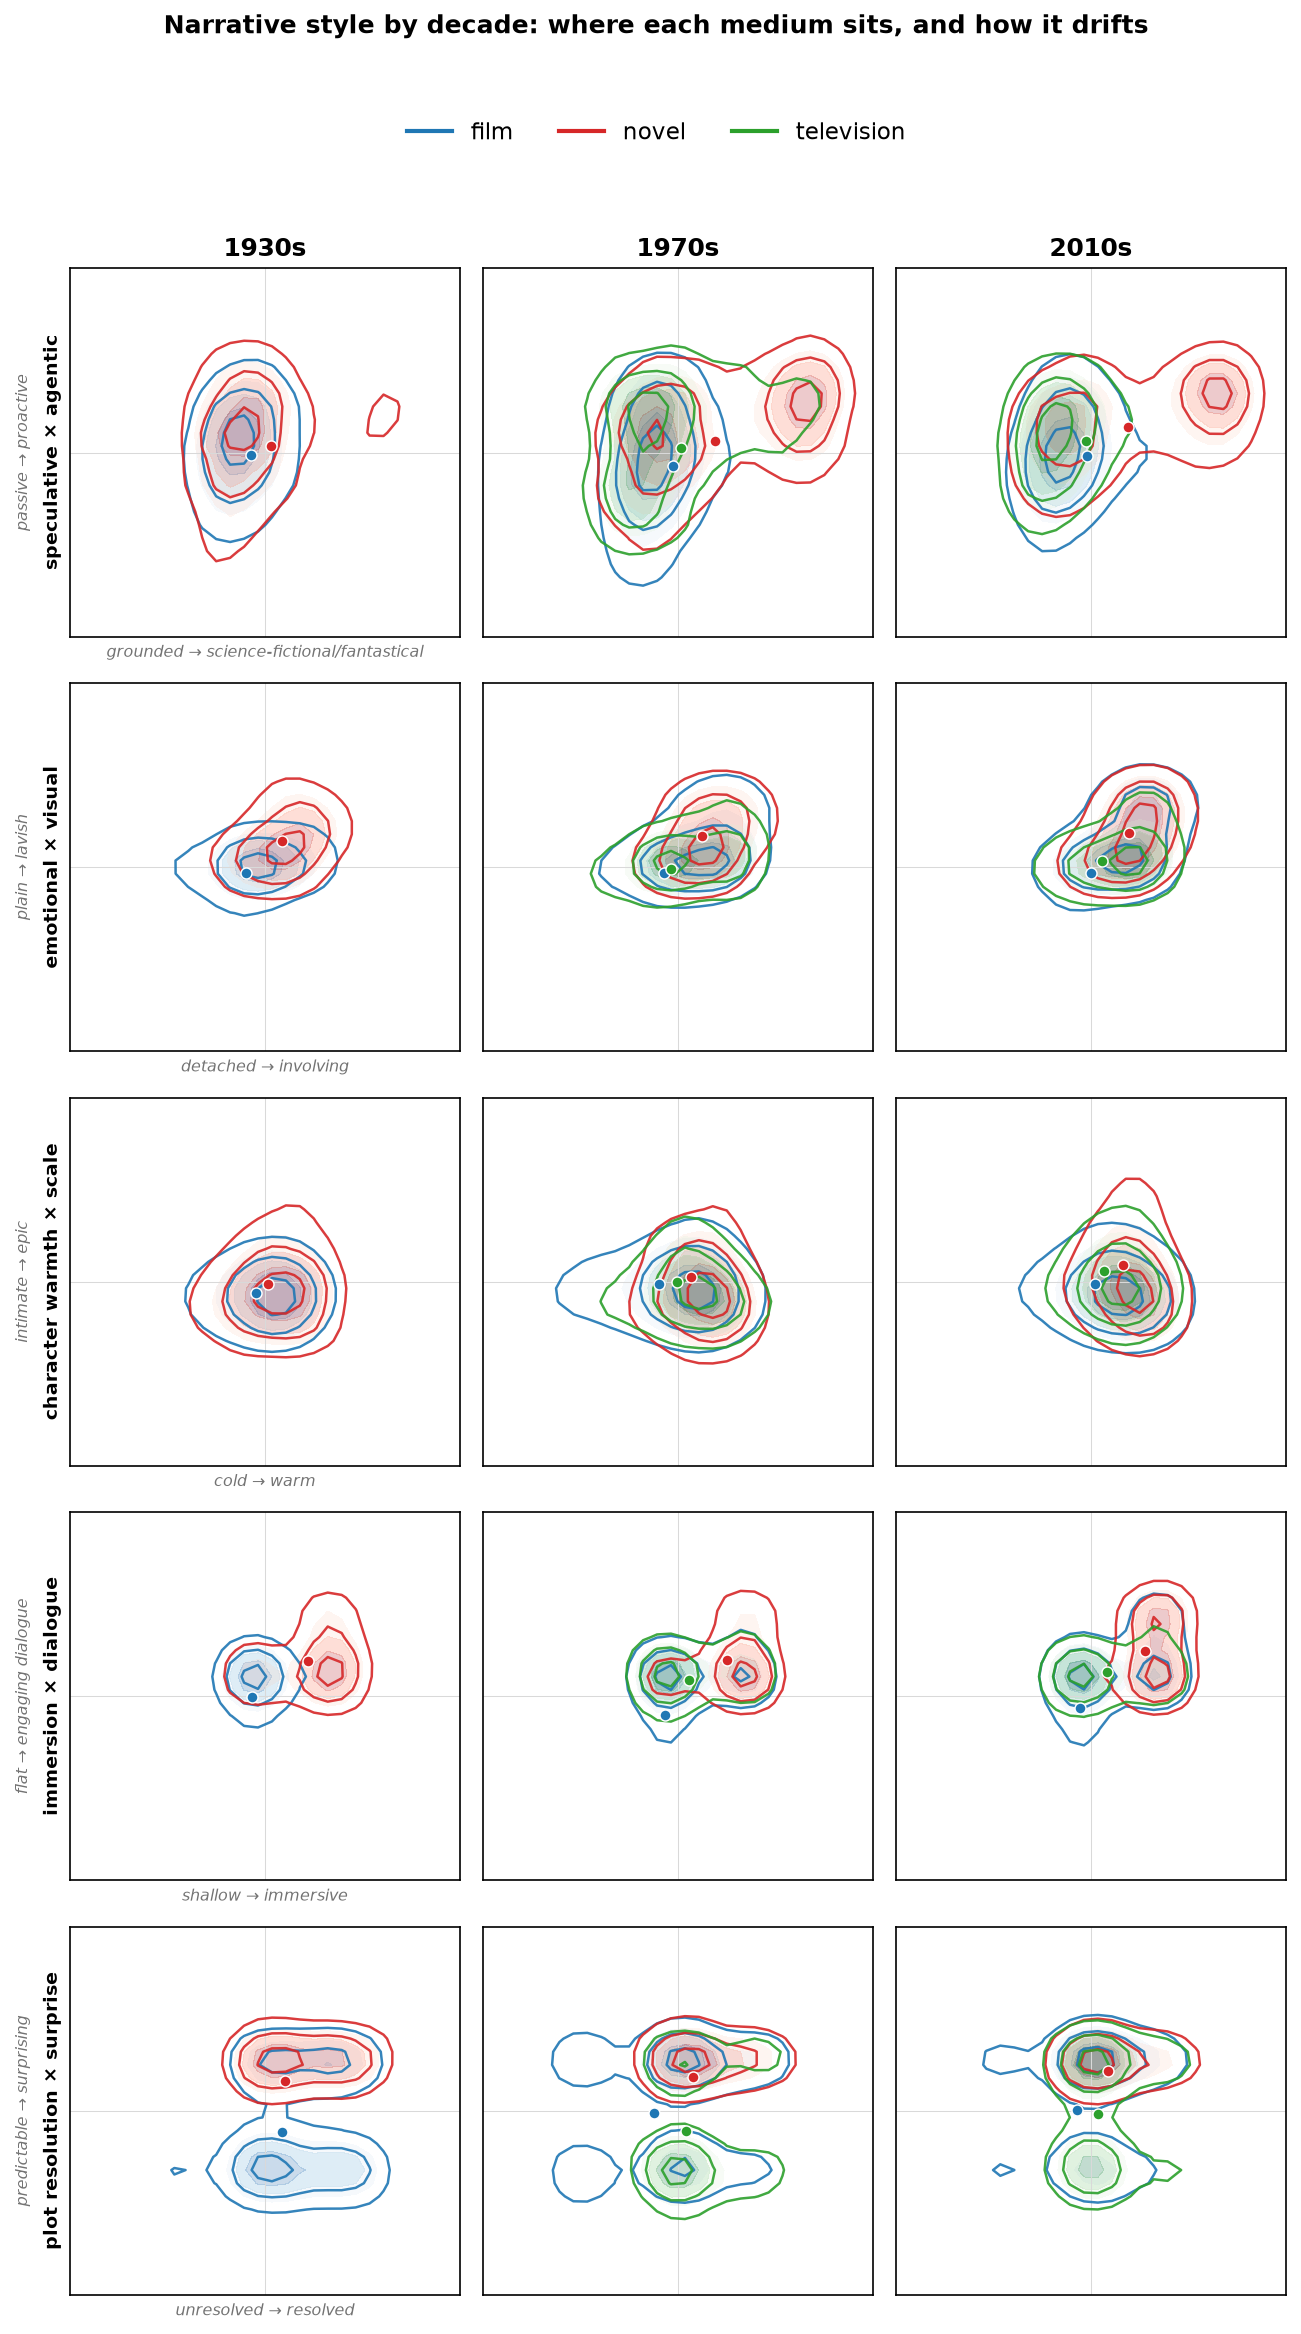
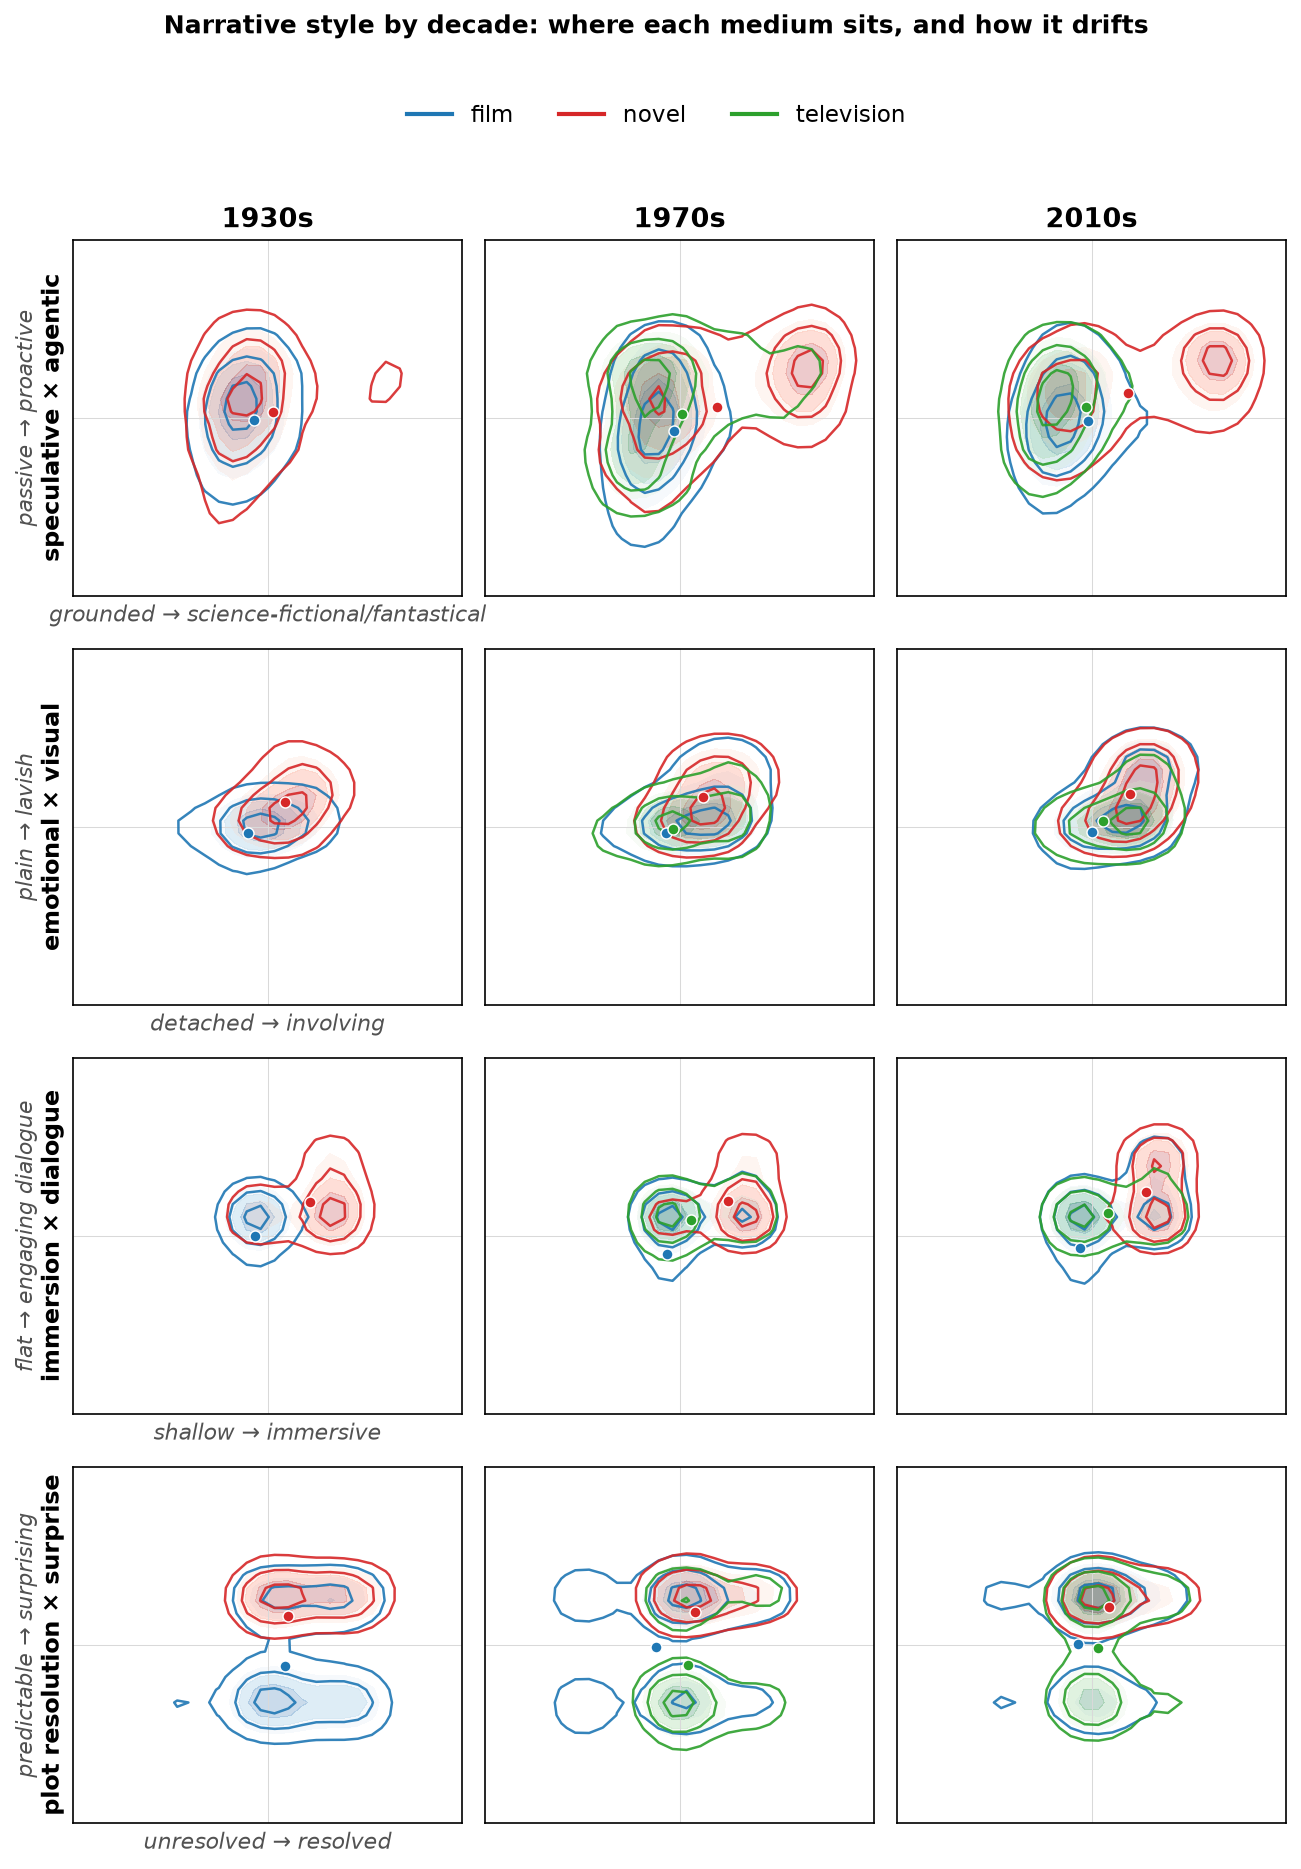
Enlarge style-space density axis labels; refresh check_report to exact bk-tv 1.16
build_levels_diff.py: bump the density-grid plane titles and axis-direction
labels (7.5->10.5pt, darker) for legibility; regenerate MAIN_density_grid.png.
check_report.txt: bk-tv 1990s now target=reproduced=1.16 (exact).

diff --git a/code/figures/build_levels_diff.py b/code/figures/build_levels_diff.py
@@ -2,7 +2,7 @@ import pandas as pd, numpy as np, warnings; warnings.filterwarnings("ignore")
 import matplotlib; matplotlib.use("Agg"); import matplotlib.pyplot as plt
 from scipy.ndimage import gaussian_filter
 def load(f,idx):
-    d=pd.read_csv(f"data/corpus/{f}_structural_1890_2025.csv").rename(columns={idx:"id"}); d["medium"]=f
+    d=pd.read_csv(f"data/corpus/{f}_structural_century.csv").rename(columns={idx:"id"}); d["medium"]=f
     return d[(d.year>=1915)&(d.year<=2020)]
 F,B,T=load("film","film_idx"),load("book","book_idx"),load("tv","tv_idx")
 ATTRS=[c for c in F.columns if c not in("id","title","year","medium")]
@@ -48,7 +48,7 @@ for name,xk,yk,xl,yl in PAIRS:
             if r==0: ax.set_title(mn,fontweight="bold")
             if c==0: ax.set_ylabel(f"{dec}s",fontweight="bold",fontsize=11)
     fig.suptitle(f"Style-space density by decade and medium — {xl} (x), {yl} (y)",fontweight="bold",y=1.0)
-    plt.tight_layout(); plt.savefig(f"outputs/figures/LEVELS_{name}.png",dpi=140,bbox_inches="tight"); plt.close()
+    plt.tight_layout(); plt.savefig(f"results/figures/LEVELS_{name}.png",dpi=140,bbox_inches="tight"); plt.close()
     # ---- DIFF map: early -> 2010s, per medium ----
     fig,axes=plt.subplots(1,3,figsize=(15.5,5.4))
     for ax,(mn,d,cm) in zip(axes,mediaC):
@@ -63,11 +63,11 @@ for name,xk,yk,xl,yl in PAIRS:
         if mn=="film": ax.set_ylabel(yl)
         ax.axhline(0,color="gray",lw=.5,ls=":"); ax.axvline(0,color="gray",lw=.5,ls=":"); ax.set_xlim(DRNG); ax.set_ylim(DRNG)
     fig.suptitle(f"Where works moved: density change, 1950s → 2010s — {xl} (x) vs {yl} (y)\n(red = gained, blue = lost; hollow = early centroid, filled = 2010s, arrow = drift)",fontweight="bold",y=1.03)
-    plt.tight_layout(); plt.savefig(f"outputs/figures/DIFF_{name}.png",dpi=140,bbox_inches="tight"); plt.close()
+    plt.tight_layout(); plt.savefig(f"results/figures/DIFF_{name}.png",dpi=140,bbox_inches="tight"); plt.close()
 # ---- MAIN lite figure: multi-plane contour grid, fewer decades, media overlaid ----
 LBL={name:(xl,yl) for name,xk,yk,xl,yl in PAIRS+EXTRA}
 PTITLE={"speculative_agentic":"speculative × agentic","emotional_visual":"emotional × visual","warmth_scale":"character warmth × scale","immersion_dialogue":"immersion × dialogue","resolution_surprise":"plot resolution × surprise"}
-MP=["speculative_agentic","emotional_visual","warmth_scale","immersion_dialogue","resolution_surprise"]; MD=[1930,1970,2010]
+MP=["speculative_agentic","emotional_visual","immersion_dialogue","resolution_surprise"]; MD=[1930,1970,2010]
 # short axis end-labels per row so the plane is readable without the caption
 AXLBL={"speculative_agentic":("grounded → science-fictional/fantastical","passive → proactive"),
        "emotional_visual":("detached → involving","plain → lavish"),
@@ -91,15 +91,15 @@ for r,name in enumerate(MP):
                 ax.scatter([sub[xc].mean()],[sub[yc].mean()],s=28,c=mc[mn],edgecolor="white",linewidths=0.7,zorder=6)
         ax.set_xticks([]); ax.set_yticks([]); ax.set_xlim(DRNG); ax.set_ylim(DRNG)
         ax.axhline(0,color="0.85",lw=.5); ax.axvline(0,color="0.85",lw=.5)
-        if r==0: ax.set_title(f"{dec}s",fontweight="bold",fontsize=12)
+        if r==0: ax.set_title(f"{dec}s",fontweight="bold",fontsize=13)
         if c==0:
-            ax.set_ylabel(f"{PTITLE[name]}",fontsize=9,fontweight="bold")
+            ax.set_ylabel(f"{PTITLE[name]}",fontsize=11.5,fontweight="bold")
             axx,axy=AXLBL[name]
-            ax.set_xlabel(axx,fontsize=7.5,color="0.45",style="italic")
-            ax.text(-0.12,0.5,axy,transform=ax.transAxes,rotation=90,ha="center",va="center",fontsize=7.5,color="0.45",style="italic")
+            ax.set_xlabel(axx,fontsize=10.5,color="0.32",style="italic")
+            ax.text(-0.12,0.5,axy,transform=ax.transAxes,rotation=90,ha="center",va="center",fontsize=10.5,color="0.32",style="italic")
 from matplotlib.lines import Line2D
 figM.legend([Line2D([0],[0],color=mc[m],lw=2) for m in ["film","book","tv"]],["film","novel","television"],loc="upper center",ncol=3,frameon=False,bbox_to_anchor=(0.5,1.03),fontsize=11)
 figM.suptitle("Narrative style by decade: where each medium sits, and how it drifts",fontweight="bold",y=1.07)
-plt.tight_layout(); plt.savefig("outputs/figures/MAIN_density_grid.png",dpi=150,bbox_inches="tight"); plt.close()
+plt.tight_layout(); plt.savefig("results/figures/MAIN_density_grid.png",dpi=150,bbox_inches="tight"); plt.close()
 print("saved MAIN_density_grid.png")
 print("saved LEVELS_* and DIFF_* for:", [p[0] for p in PAIRS])